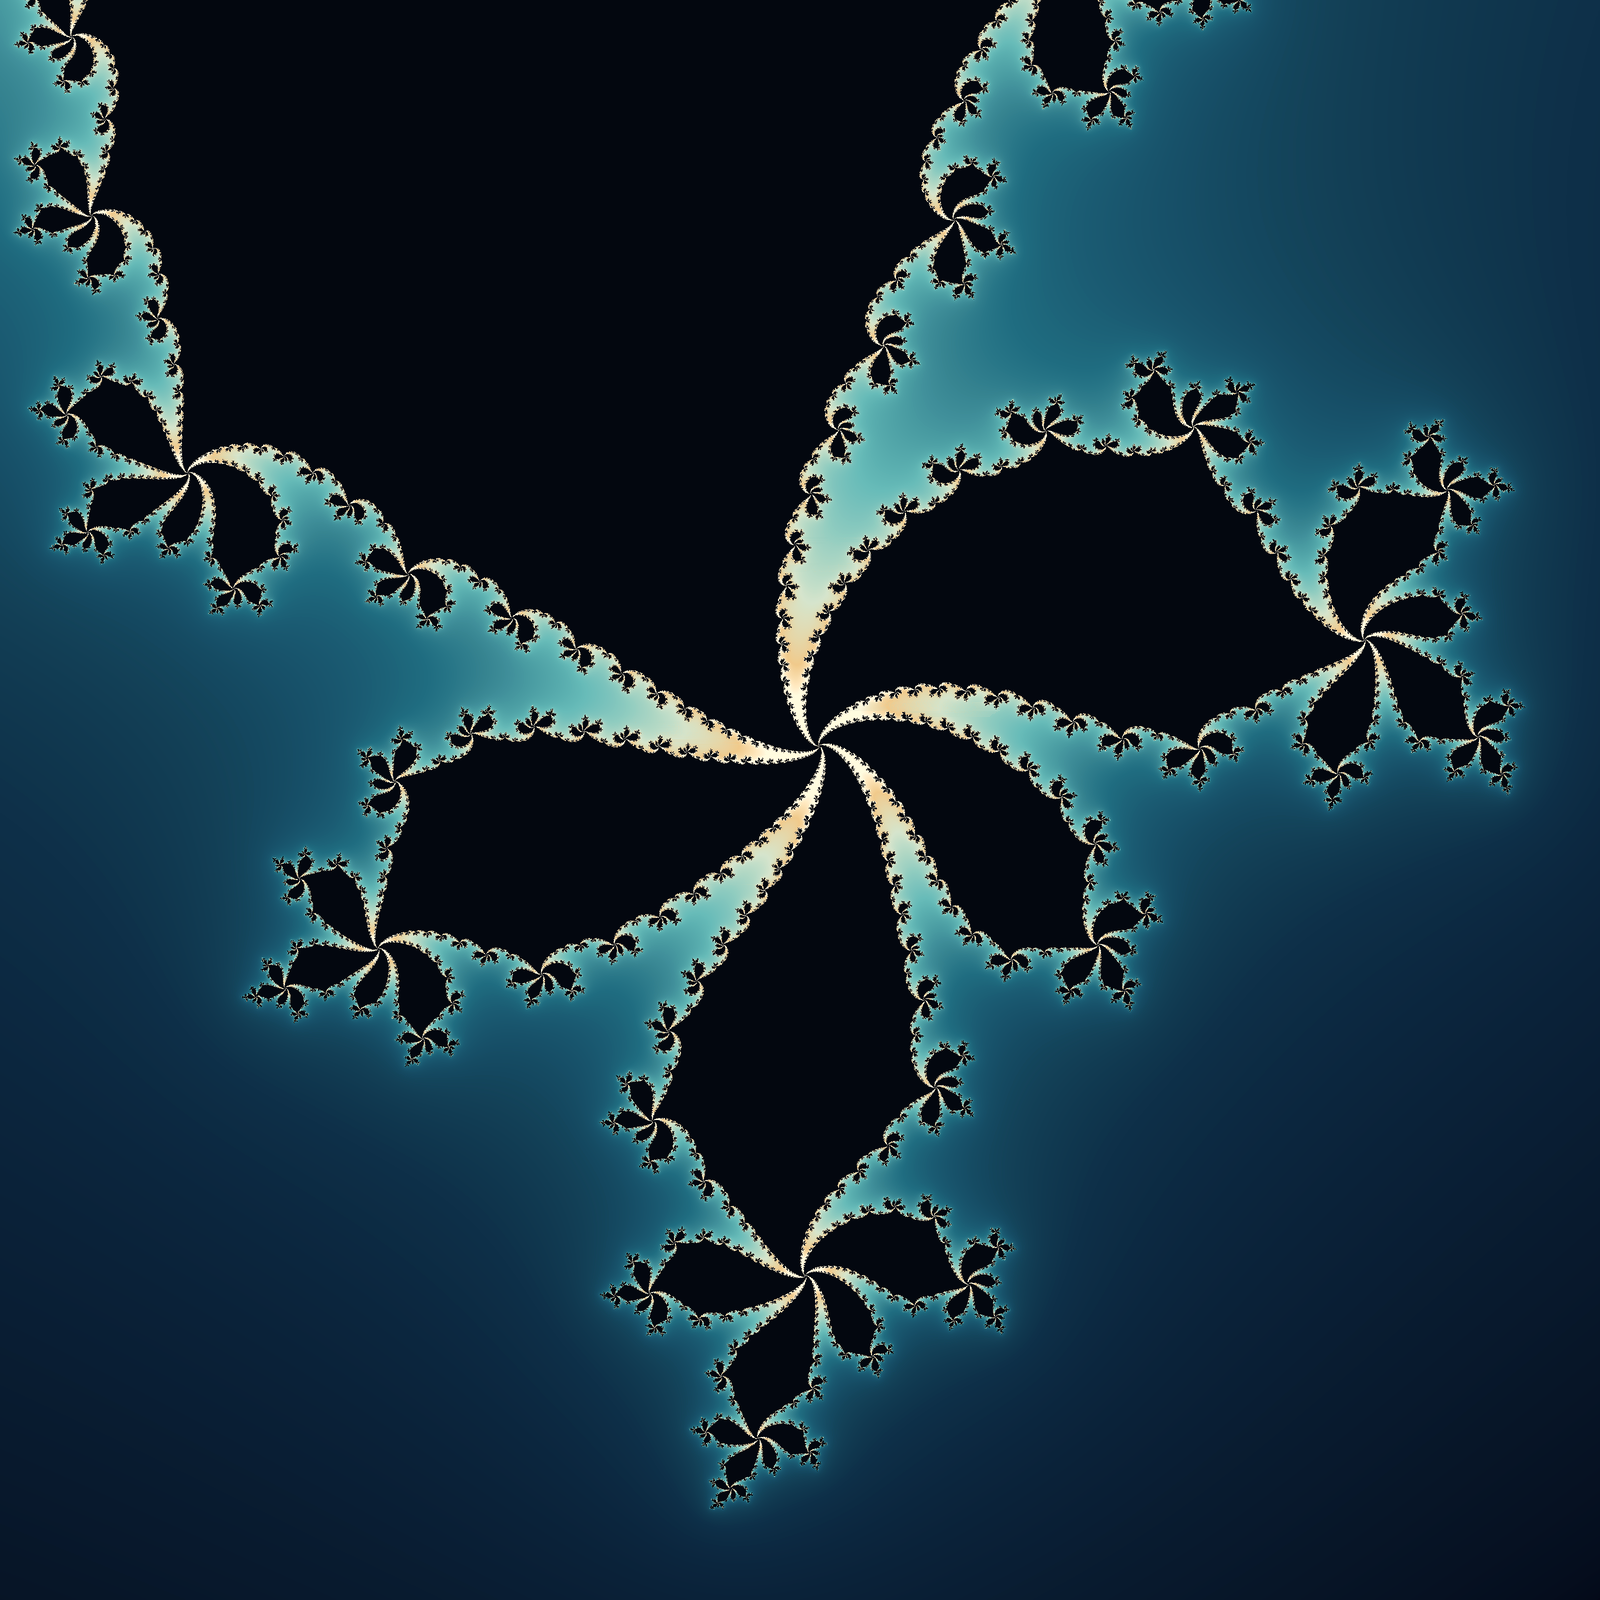
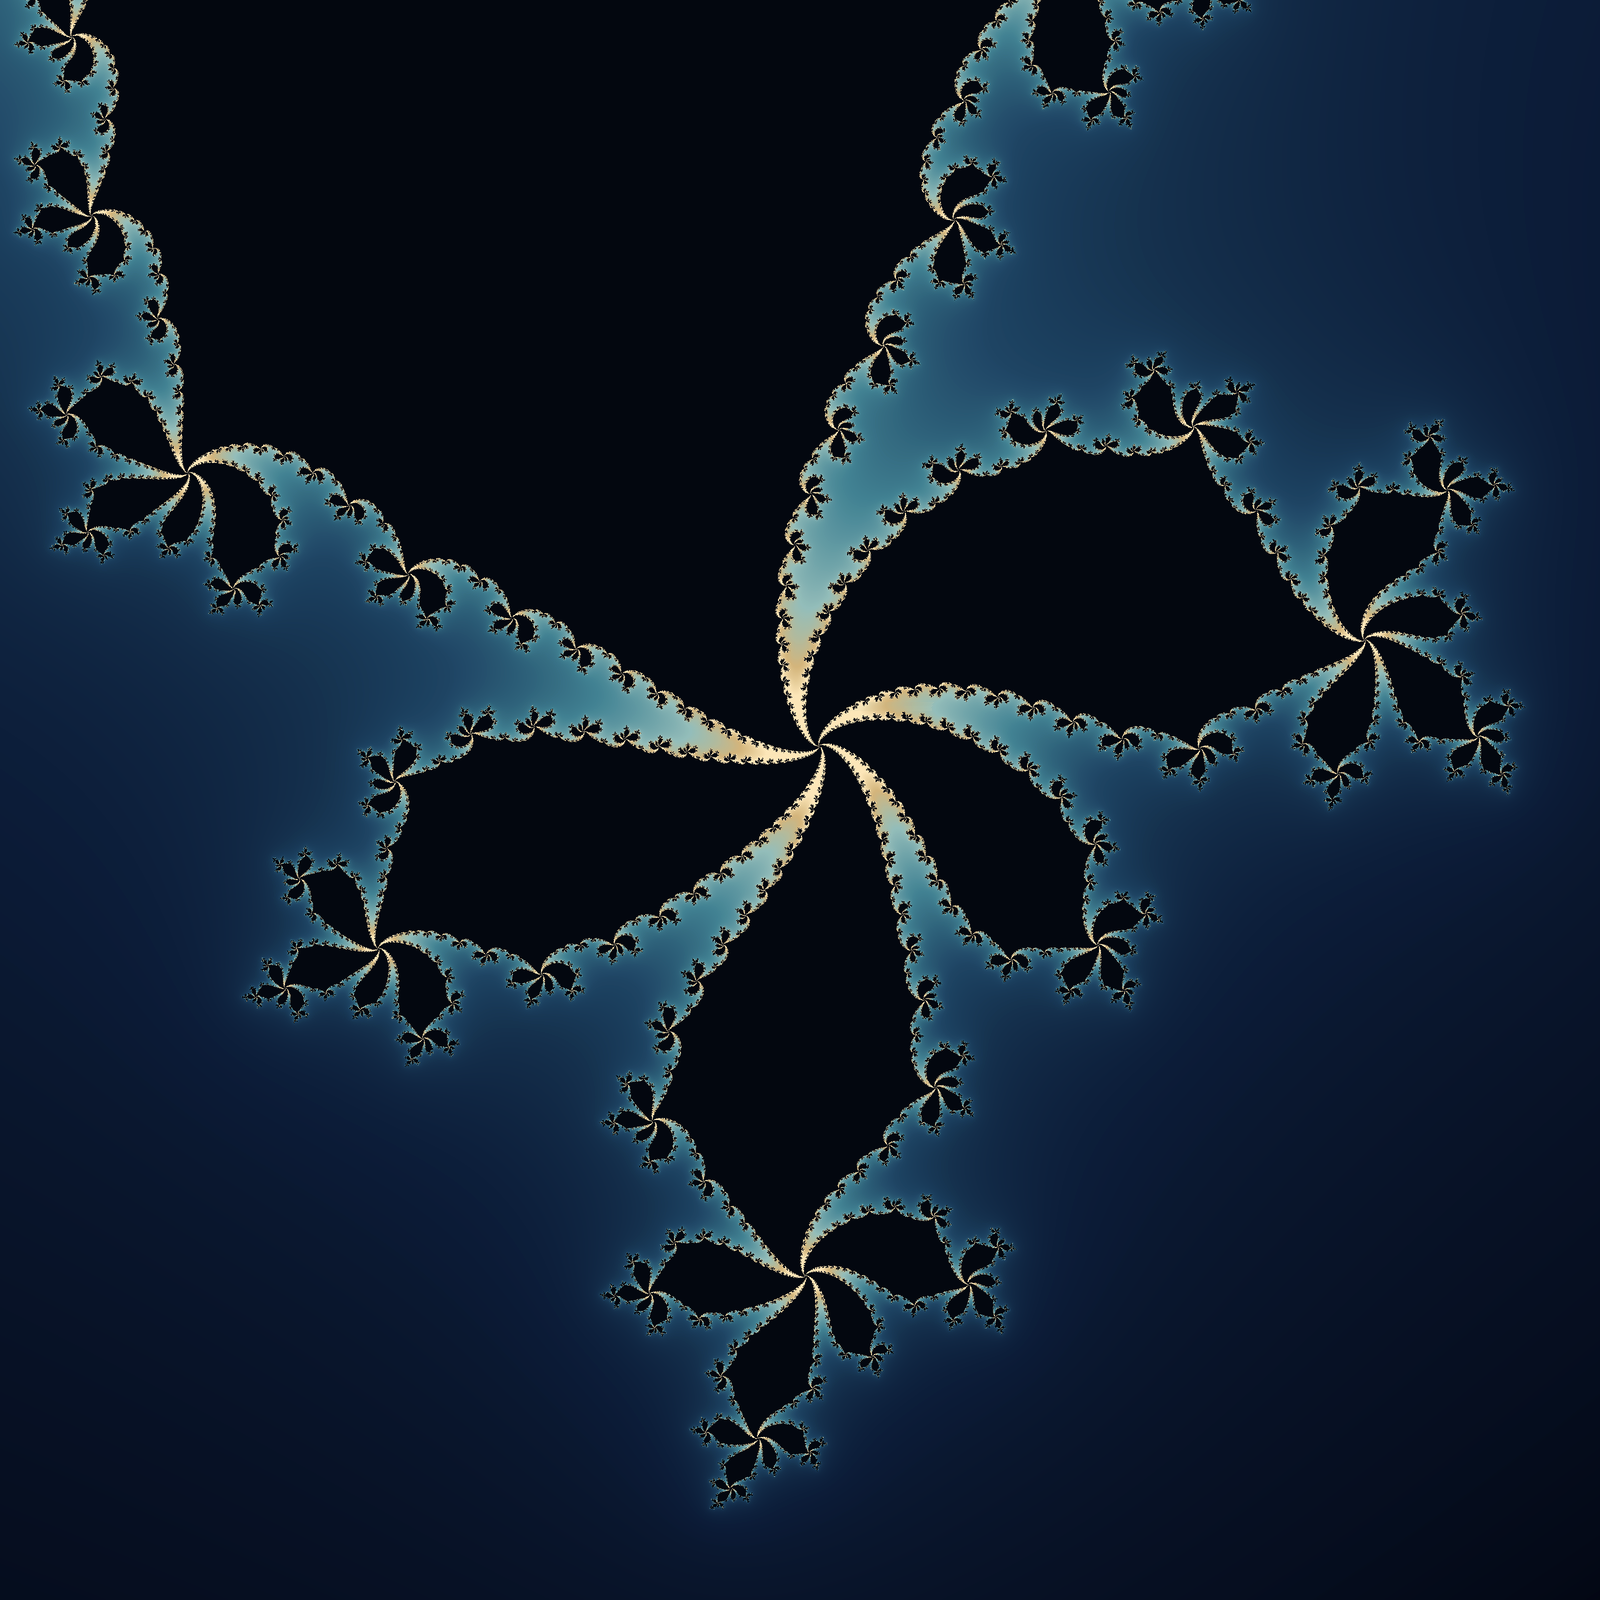
Refine Julia palette with lapis and antique gold

Changed region(s): [[0.0, 0.0, 0.9688, 0.9688]]

diff --git a/julia_render.py b/julia_render.py
@@ -170,23 +170,23 @@ def main():
     img = colorize_julia(
         smooth,
         escaped,
-        gamma=0.54,
-        # Midnight blue, jade, sea glass, and warm ivory highlights.
+        gamma=0.57,
+        # Lapis, sea glass, and antique-gold highlights.
         palette=[
-            (6, 10, 25), (16, 48, 72), (35, 106, 125),
-            (103, 183, 180), (208, 222, 199), (234, 197, 139),
-            (255, 244, 217),
+            (5, 8, 20), (15, 31, 58), (32, 68, 97),
+            (67, 127, 143), (145, 184, 181), (205, 177, 123),
+            (244, 224, 181),
         ],
     )
     img = img.resize((output_size, output_size), Image.Resampling.LANCZOS)
 
     sorted_img = pixel_sort_by_luminance(
         img,
-        threshold=185,
+        threshold=175,
         min_run_length=60,
         sort_descending=False,
     )
-    img = Image.blend(img, sorted_img, 0.12)
+    img = Image.blend(img, sorted_img, 0.08)
 
     img = enhance_image(
         img,
